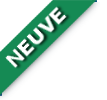
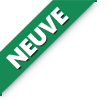
Ajout flèche pour remonter en haut de page.

Changed region(s): [[0.028, 0.06, 0.6449, 0.69]]

diff --git a/automotive-premium-child/style.css b/automotive-premium-child/style.css
@@ -68,7 +68,7 @@ Tags: three-columns, custom-header, custom-menu, featured-images, translation-re
 .arrivals-link .Neuve, .arrivals-link .Vendue, .arrivals-link .Solde{
     display: inline-block;
     position: absolute;
-    top: -3px;
+    top: 0px;
     left: 9px;
     height: 99px;
     width: 99px;
@@ -213,4 +213,31 @@ Tags: three-columns, custom-header, custom-menu, featured-images, translation-re
 
 .call-us{
     padding: 10px 10px 30px 0;
+}
+
+.crunchify-top{
+    display: none;
+    position: fixed;
+    bottom: 10rem;
+    right: 1rem;
+    width: 4.2rem;
+    height: 4.2rem;
+    line-height: 4.2rem;
+    font-size: 2.4rem;
+    text-decoration: none;
+    border-radius: 3.2rem;
+    text-align: center;
+    cursor: pointer;
+    z-index: 9999;
+}
+
+.crunchify-top{
+    border: 2px solid #fff;
+    background: #fff;
+    color: #af2c2e!important;
+}
+.crunchify-top:hover{
+    color: #fff!important;
+    border: 2px solid #af2c2e;
+    background: #af2c2e;
 }

diff --git a/automotive-premium-child/assets/js/child_script.js b/automotive-premium-child/assets/js/child_script.js
@@ -1,0 +1,17 @@
+	jQuery(document).ready(function() {
+		var offset = 235;
+		var duration = 500;
+		jQuery(window).scroll(function() {
+			if (jQuery(this).scrollTop() > offset) {
+				jQuery('.crunchify-top').fadeIn(duration);
+			} else {
+				jQuery('.crunchify-top').fadeOut(duration);
+			}
+		});
+ 
+		jQuery('.crunchify-top').click(function(event) {
+			event.preventDefault();
+			jQuery('html, body').animate({scrollTop: 0}, duration);
+			return false;
+		})
+	});

diff --git a/automotive-premium-child/index.php b/automotive-premium-child/index.php
@@ -1,13 +1,13 @@
         <?php get_header(); ?>
         <div id="header_home">
-            <?php if ( ! dynamic_sidebar( 'type' ) ) : endif; ?>          
-            <?php if ( ! dynamic_sidebar( 'find-cars' ) ) : endif; ?> 
+            <?php if ( ! dynamic_sidebar( 'type' ) ) : endif; ?>
+            <?php if ( ! dynamic_sidebar( 'find-cars' ) ) : endif; ?>
         </div>
 
         <div class="col-sm-9 home col-sm-push-3" id="content">
-            <?php cps_ajax_search_results(); ?>	
+            <?php cps_ajax_search_results(); ?>
             <?php if ( ! dynamic_sidebar( 'carousel' ) ) : endif; ?>
-            <?php require_once('arrivals.php'); ?>	
+            <?php require_once('arrivals.php'); ?>
         </div>
         <div class="col-sm-3 col col-sm-pull-9" id="left-sidebar">
             <?php if ( ! dynamic_sidebar( 'search' ) ) : endif; ?>
@@ -22,7 +22,7 @@
             <?php echo do_shortcode('[gallery display="owlcolumns" columns="6" gutterwidth="10" link="file" size="small" captions="hide" bottomspace="five" ids="123,120,121,122,117,118,124,119,116,115,113,114"]'); ?>
         </div>
     </div>
-</div>  
+</div>
 
 
 <?php get_footer('home'); ?>

diff --git a/automotive-premium-child/footer.php b/automotive-premium-child/footer.php
@@ -1,18 +1,19 @@
 <div class="container-fluid footer">
 
-		<div class="row">
-			<div class="col-sm-12">
-                <div id="footer">
-                    <?php if ( ! dynamic_sidebar( 'type' ) ) : endif; ?>
-                    <?php if ( ! dynamic_sidebar( 'find-cars' ) ) : endif; ?> 
-                </div>
-			</div>
-			<div id="footer" class="col-sm-12" >
-				<?php if ( ! dynamic_sidebar( 'footer' )) : ?>
-				<?php endif; ?>
-			</div>
-		</div>	
-	</div>
+    <div class="row">
+        <div class="col-sm-12">
+            <div id="footer">
+                <?php if ( ! dynamic_sidebar( 'type' ) ) : endif; ?>
+                <?php if ( ! dynamic_sidebar( 'find-cars' ) ) : endif; ?> 
+            </div>
+        </div>
+        <div id="footer" class="col-sm-12" >
+            <?php if ( ! dynamic_sidebar( 'footer' )) : ?>
+            <?php endif; ?>
+        </div>
+        <a href="#" class="crunchify-top"><i class="fa fa-arrow-up "></i></a>
+    </div>	
+</div>
 	<div class="container-fluid hidden-xs">
 		<div class="row">
 			<div class="bottom-bar-wrapper">

diff --git a/automotive-premium-child/functions.php b/automotive-premium-child/functions.php
@@ -1,6 +1,9 @@
 <?php
 function my_theme_enqueue_styles() {
         
+    //Enqueue the script for having the arrow to go up
+    wp_enqueue_script('crunchify',get_stylesheet_directory_uri().'/assets/js/child_script.js', array( 'jquery' ),'', false);
+        
     // Enqueue the parent style after bootstrap-css => it will not be overwritten by the bootstrap template css
     wp_enqueue_style( 'parent-style', get_template_directory_uri() . '/style.css', array('bootstrap-css') );
     // Enqueue the child style after it's parent - array( $parent_style ), -

diff --git a/automotive-premium-child/inventory.php b/automotive-premium-child/inventory.php
@@ -196,7 +196,6 @@ Template Name: Inventory
 	<p style="padding:30px;"><?php _e('Sorry, no listings matched your criteria.','language');?></p>
 	<?php endif; ?>
 	<div class="bottom-pagination hideOnSearch">
-		<p><a id="link" href="#top"><?php _e('BACK TO TOP','language');?></a></p>
 		<p class="paging">
 			<?php wp_reset_postdata(); pagination_nav(); $wp_query = NULL; $wp_query = $temp_query;?>
         </p>

diff --git a/automotive-premium-child/footer-home.php b/automotive-premium-child/footer-home.php
@@ -5,6 +5,7 @@
 				<?php if ( ! dynamic_sidebar( 'footer' )) : ?>
 				<?php endif; ?>
 			</div>
+        <a href="#" class="crunchify-top"><i class="fa fa-arrow-up "></i></a>
 		</div>	
 	</div>
 	<div class="container-fluid hidden-xs">
